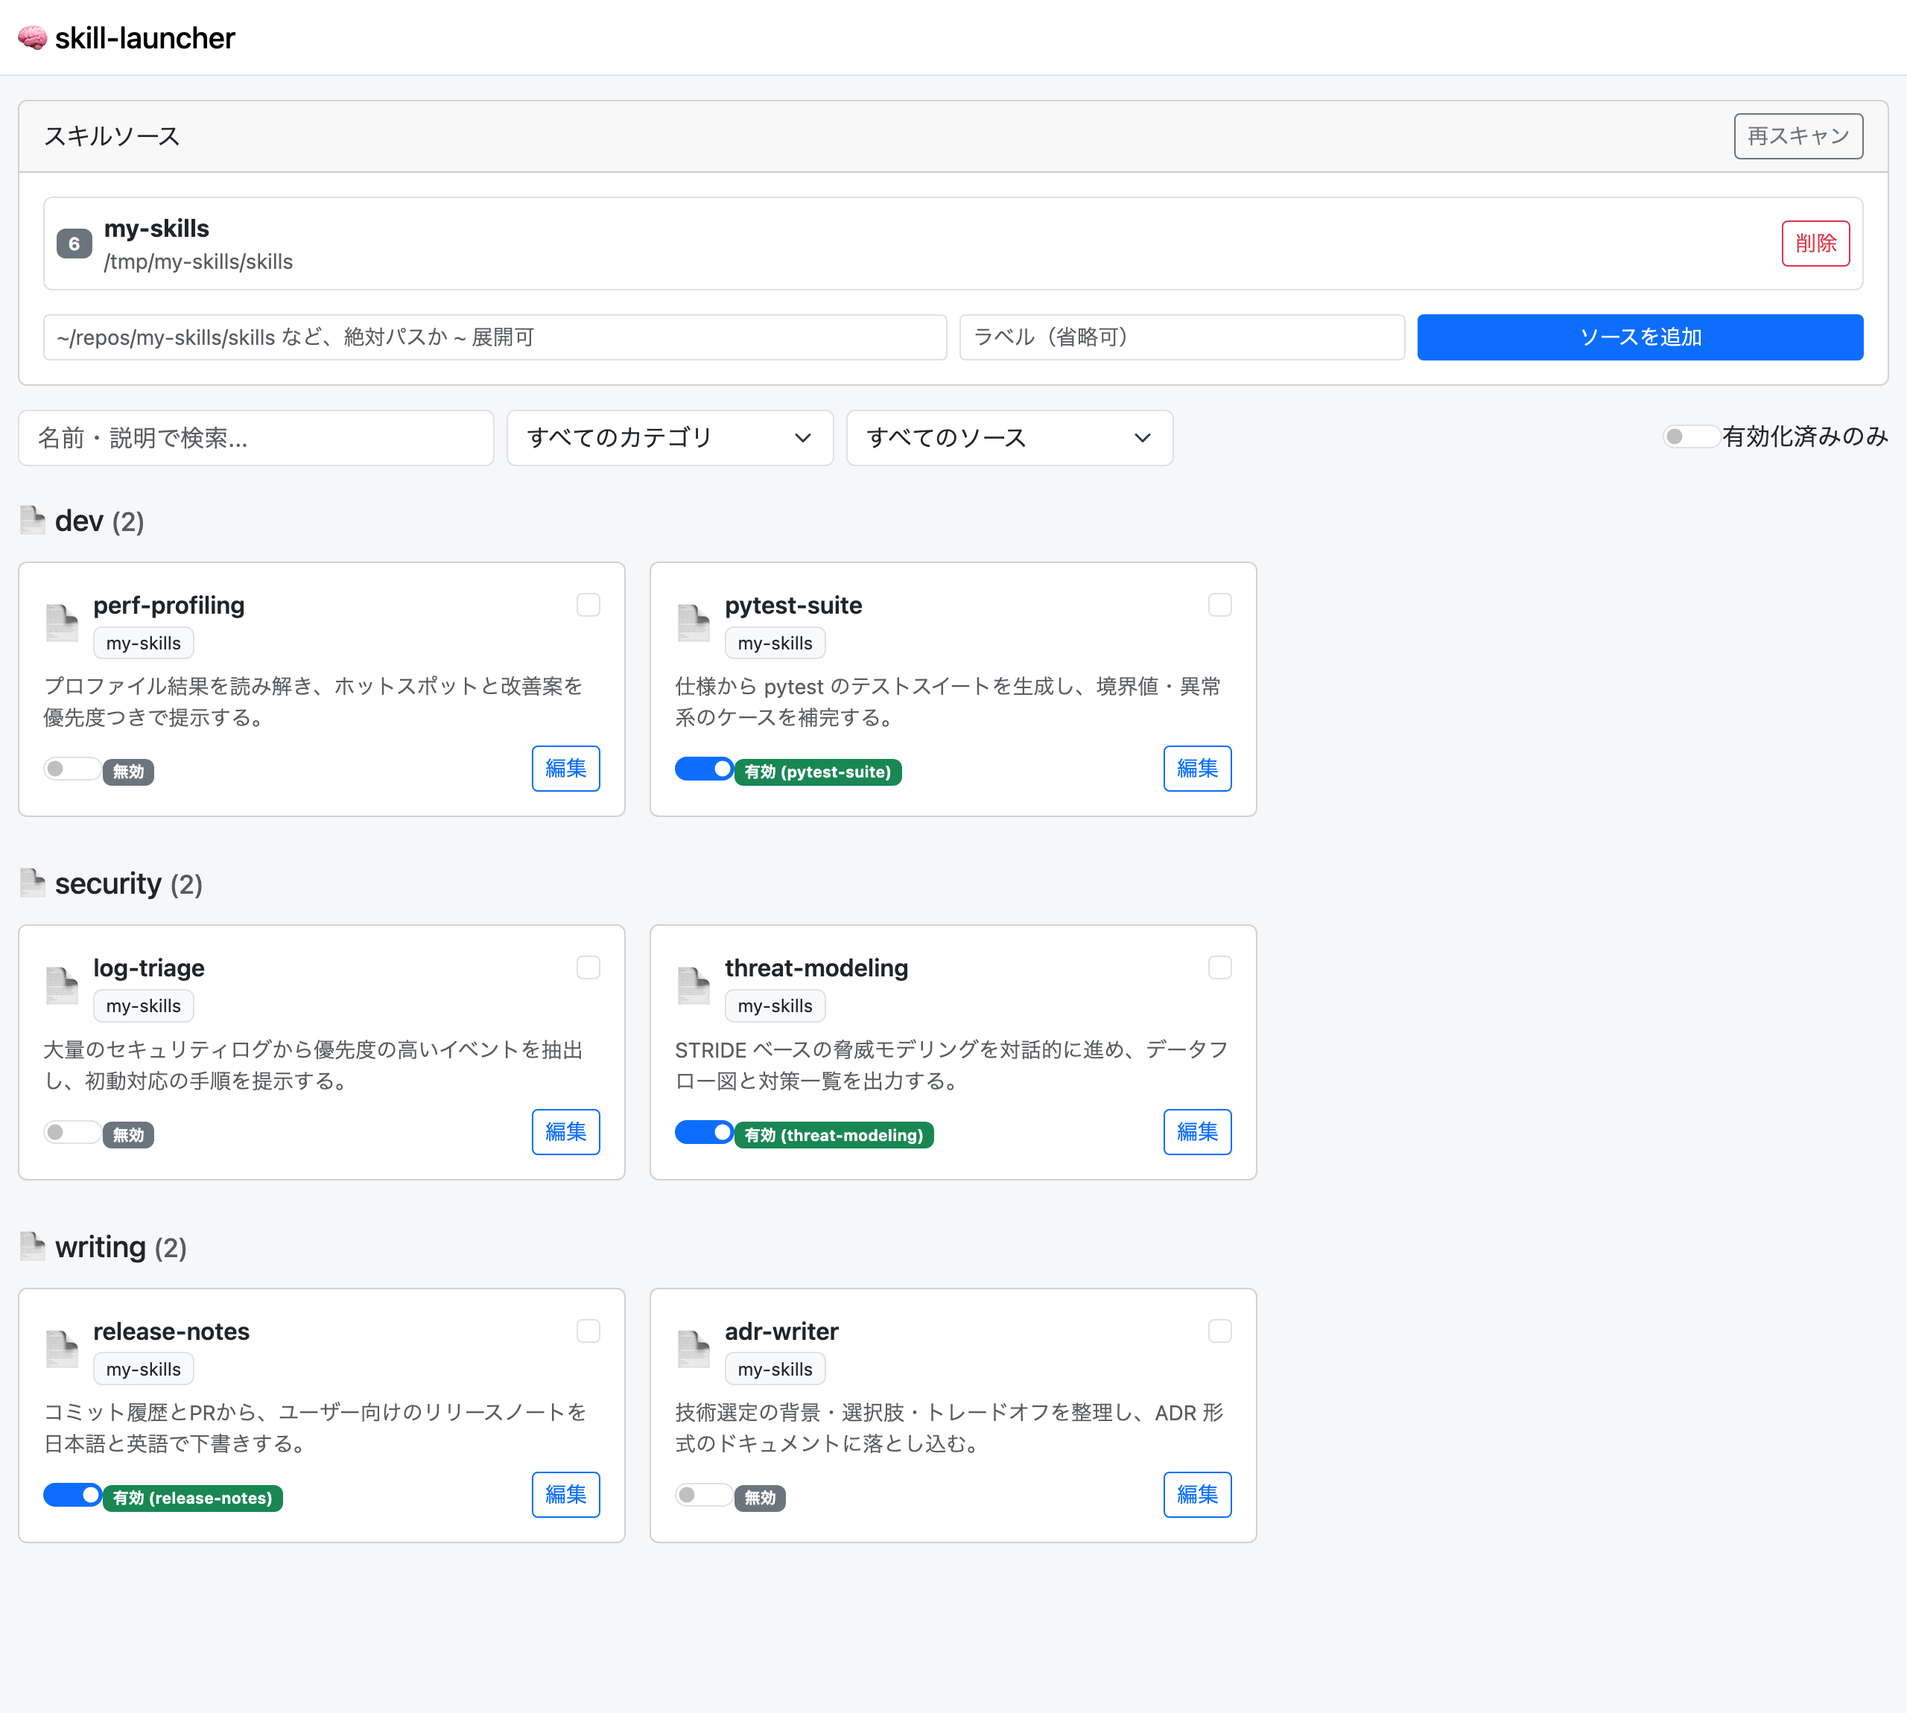
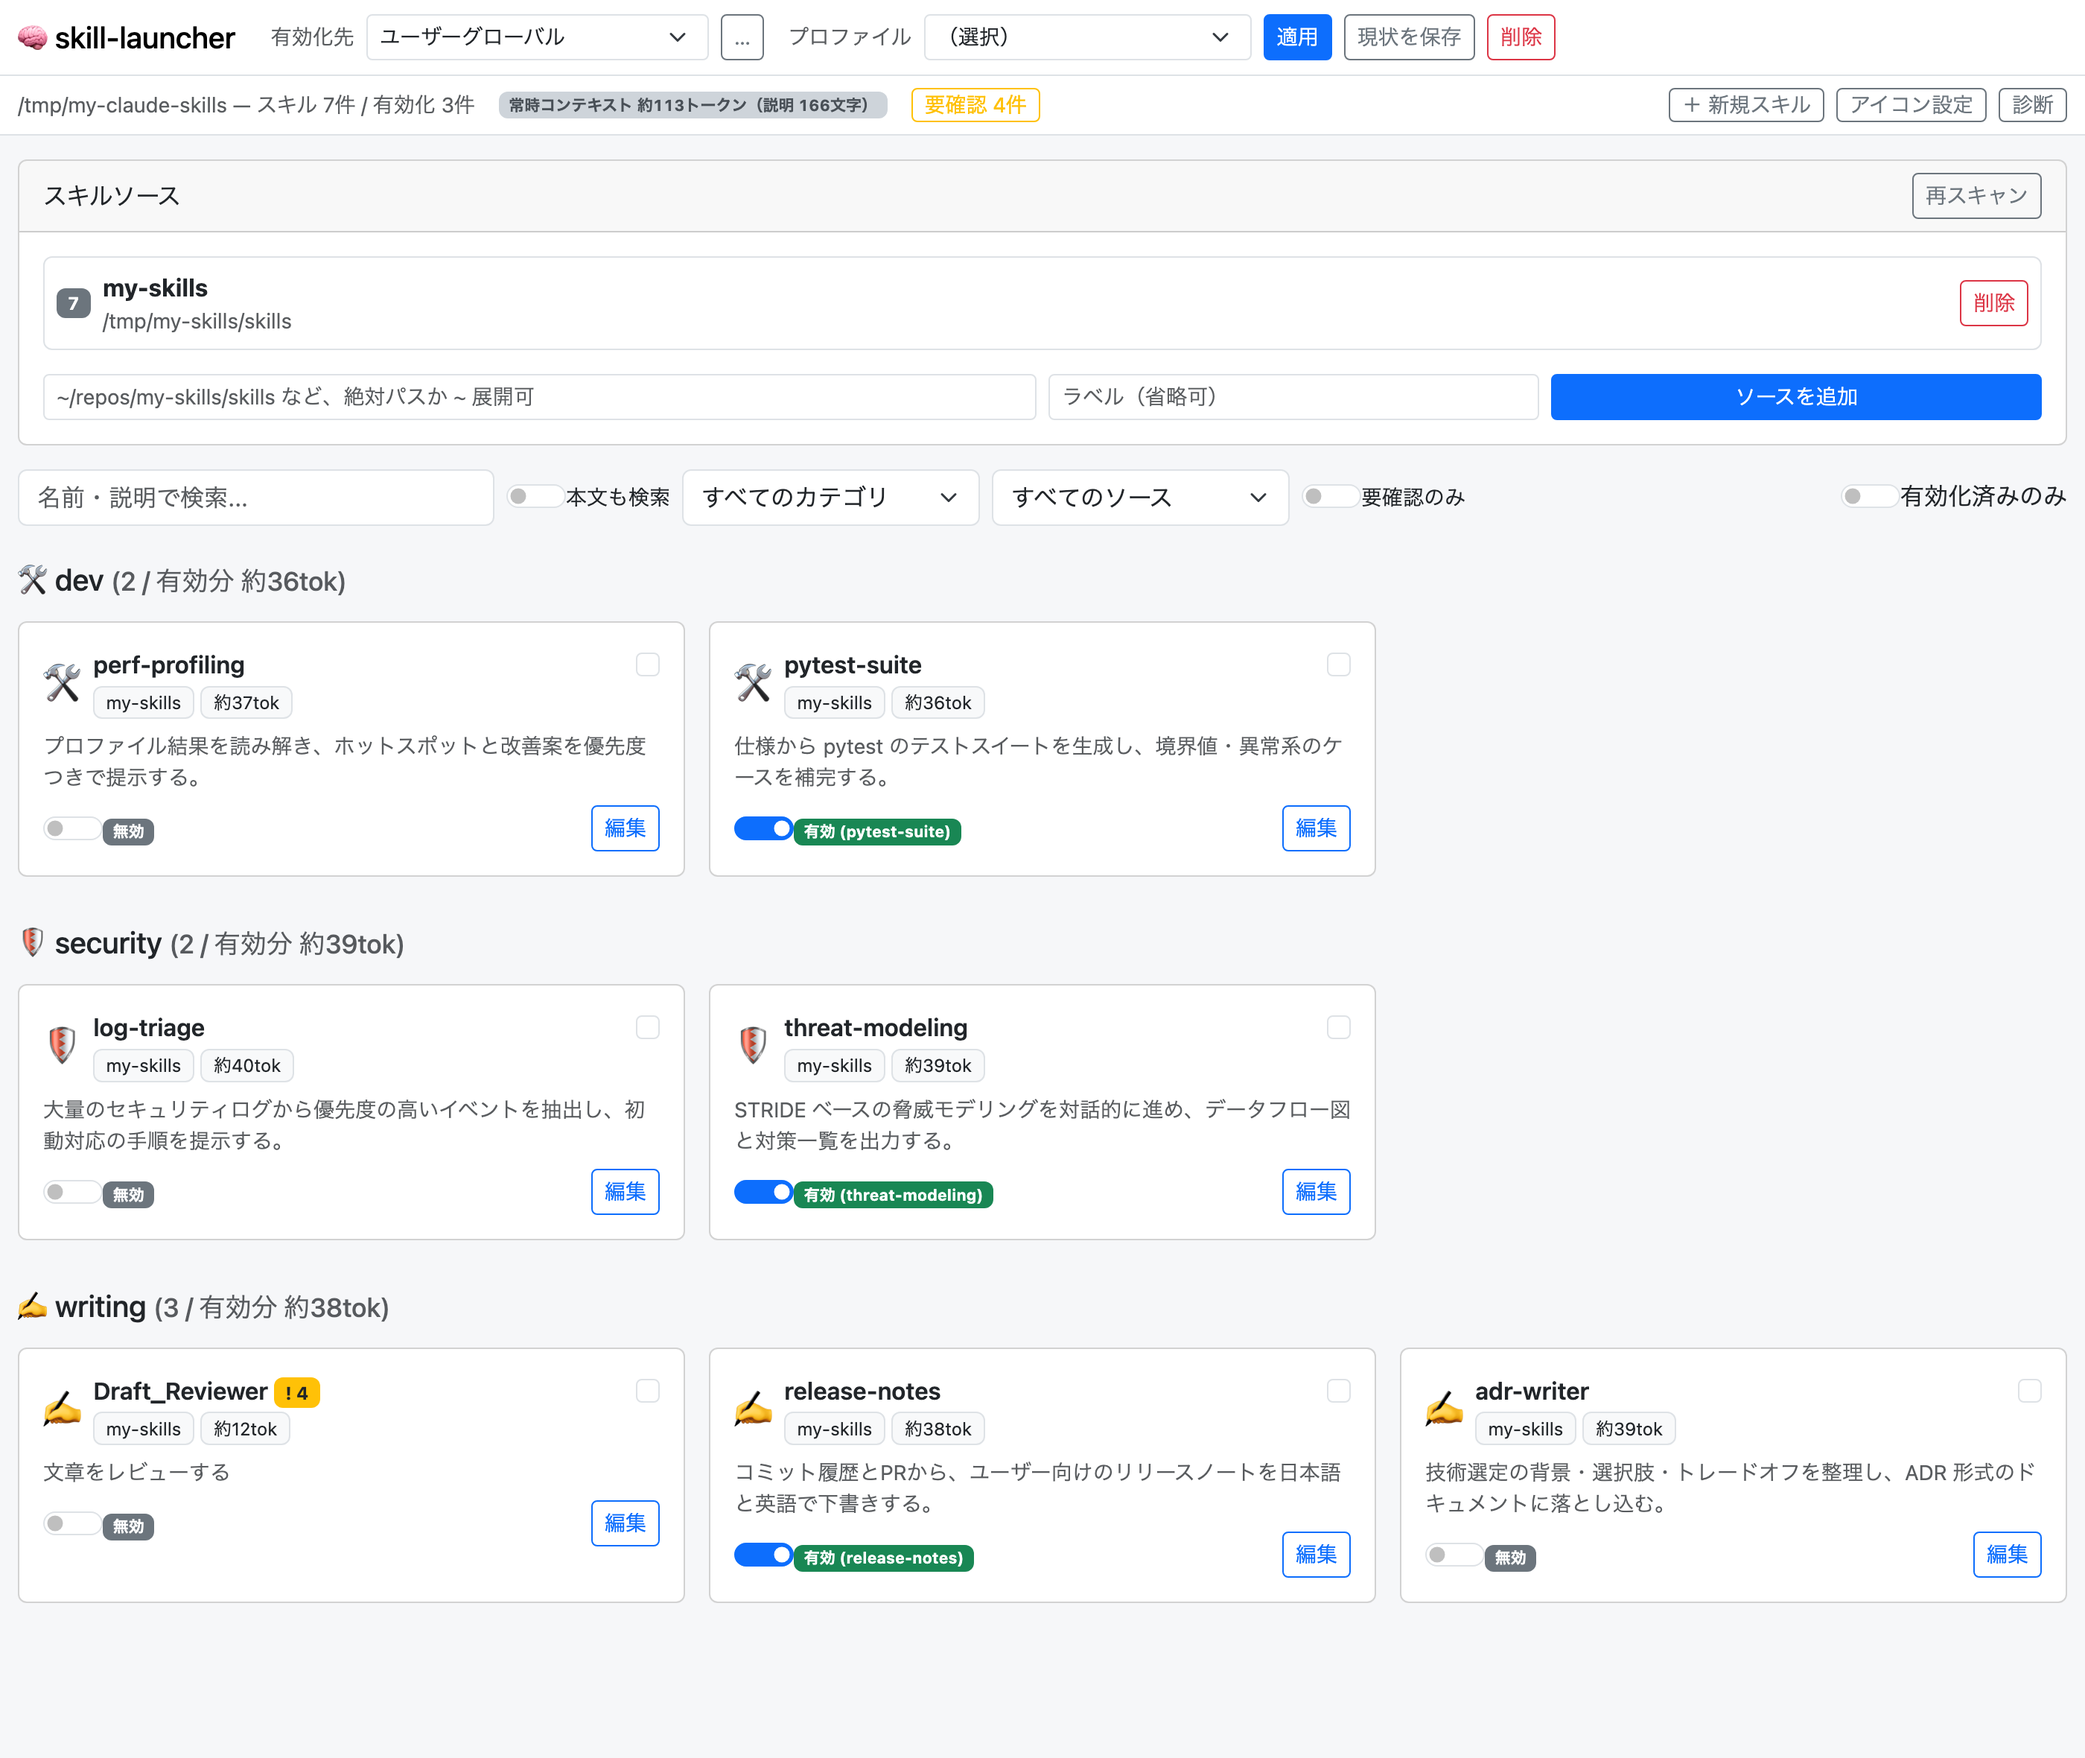
Document the new features in Japanese and English, refresh screenshot

diff --git a/README.en.md b/README.en.md
@@ -1,0 +1,99 @@
+# skill-launcher
+
+A local-only launcher / manager for Claude Skills (`SKILL.md`): collect them from several repos or folders, then browse, activate, edit and export them.
+
+[日本語](README.md)
+
+> **This is a local-only tool.** The server binds to `127.0.0.1` and has no authentication. It reads and writes local files (editing `SKILL.md`, creating symlinks under `.claude/skills`), so **do not expose it on a public network or a shared host**.
+
+## Screenshot
+
+![skill-launcher UI](docs/screenshot.png)
+
+*(A demo instance with sample skills — not real data.)*
+
+## What it does
+
+1. **Skill sources** — register any folder (a repo where you keep skills, or `~/.claude/skills` itself) and it scans recursively for `SKILL.md`, reading `name` / `description` from the YAML frontmatter and deriving a category from frontmatter or the folder layout.
+2. **Launcher UI** — skills grouped by category with emoji icons, plus search (name/description, optionally full-text over bodies), category/source filters, and "enabled only" / "needs attention" toggles.
+3. **Activation toggle** — flipping a switch creates or removes a symlink named `<name>` in the activation target (falling back to a copy where symlinks are unavailable). **Only entries this tool created** are ever managed; skills you placed by hand are never touched.
+4. **Multiple activation targets** — activate globally (`~/.claude/skills`) or into a specific project's `<project>/.claude/skills`.
+5. **Profiles** — save a named set of enabled skills and switch the whole set with one click ("security research mode", "writing mode", …).
+6. **Always-on context cost** — every enabled skill keeps its `name` + `description` in the system prompt, so the estimated token cost is shown for the whole set, per category, per card and for the current selection.
+7. **Frontmatter lint** — warns about a missing or over-long `description`, a `name` that is not kebab-case or does not match its folder, an empty body, and so on, both as a card badge and in the editor.
+8. **Edit, create, duplicate** — edit `SKILL.md` in the UI (always backed up first, and refused if the file changed since you opened it), browse bundled files (`references/`, `scripts/`), scaffold a new skill from a template, or duplicate an existing one.
+9. **Doctor** — finds broken links, missing sources, stale copy-mode activations and unmanaged entries, with one-click relink / forget.
+10. **Export to a system prompt** — bundle the selected skills into a single Markdown file, for environments without a skills mechanism or for API use.
+
+## Running it
+
+```bash
+git clone https://github.com/focuslight-nr/skill-launcher.git
+cd skill-launcher
+./start.sh
+```
+
+The first run creates its own `.venv` and installs `aiohttp` / `PyYAML`. The server starts on port `8877` (falling back to the next free port) and prints the URL; open `http://127.0.0.1:<port>/`.
+
+Directly with Python:
+
+```bash
+.venv/bin/python server.py            # or: --port 9000
+```
+
+As an installed command:
+
+```bash
+pipx install .
+skill-launcher
+```
+
+## Where state lives
+
+```
+~/.config/skill-launcher/
+├── sources.json   # registered skill source roots
+├── managed.json   # ownership manifest: entries this tool created, per target
+├── profiles.json  # named activation sets
+├── targets.json   # extra activation targets (a project's .claude/skills)
+├── icons.json     # category -> emoji overrides
+└── backups/       # a timestamped backup per edit
+```
+
+| Env var | Default | Purpose |
+| --- | --- | --- |
+| `SKILL_LAUNCHER_CONFIG_DIR` | `~/.config/skill-launcher` | config, manifest and backups |
+| `SKILL_LAUNCHER_TARGET_DIR` | `~/.claude/skills` | default activation target |
+
+## Ownership model
+
+Existing skills live as `~/.claude/skills/<name>/SKILL.md` — one level deep. Claude's own discovery appears to assume that layout, so isolating this tool's entries in a subfolder would risk them never being loaded. Instead the tool keeps a **manifest**:
+
+- Enabling creates `<name>` in the activation target and records it in `managed.json`.
+- **Only entries listed in `managed.json` may be removed or overwritten** — including when applying a profile.
+- If the name already exists but is not in the manifest (i.e. you placed it yourself), activation is **refused with a 409** and an alternative name is suggested. Nothing is ever overwritten.
+- Where symlinks are not possible, a directory copy is used instead; the UI says so, and saving an edit re-syncs the copy.
+
+## Safety
+
+- Disabling requires `confirm: true` at the API level and a confirmation dialog in the UI.
+- Edits are backed up first, and refused if the file changed after the editor was opened.
+- Reads and writes are confined to `SKILL.md` files inside registered sources, and to files inside a skill's own folder.
+- Beyond binding to `127.0.0.1`, the server validates the `Host` header (DNS-rebinding defence) and the `Origin` of state-changing requests (so another site in your browser cannot drive it).
+
+## Development
+
+```bash
+.venv/bin/pip install -r requirements-dev.txt
+.venv/bin/python -m pytest -q
+.venv/bin/ruff check .
+```
+
+## Requirements
+
+- macOS / Linux (symlink creation into the activation target; Windows untested)
+- Python 3.9+ (tested on 3.9.6)
+
+## License
+
+[MIT](LICENSE)
